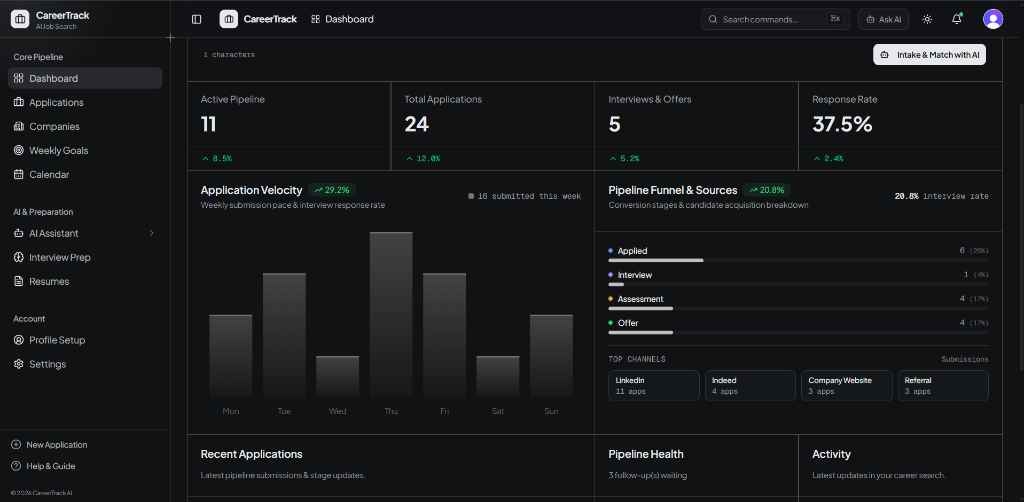
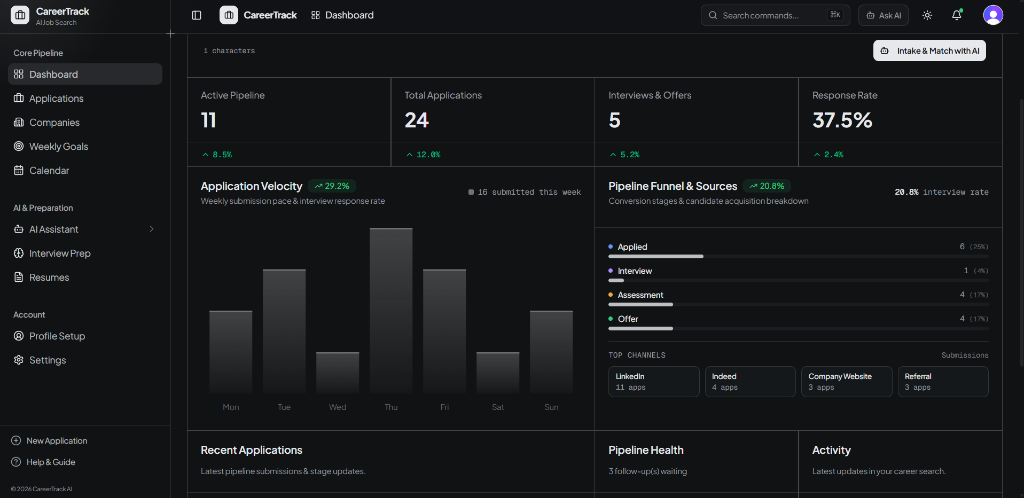
fix(landing): remove top dark border artifact from light mode hero dashboard mockup

diff --git a/src/components/hero.tsx b/src/components/hero.tsx
@@ -115,7 +115,7 @@ export function HeroSection() {
 					<Image
 						alt="CareerTrack AI Dashboard Preview (Dark Mode)"
 						className="hidden dark:block w-full h-auto object-cover pointer-events-none select-none [image-rendering:-webkit-optimize-contrast]"
-						height={502}
+						height={499}
 						src="/dashboard-dark.png"
 						width={1024}
 						priority
@@ -125,7 +125,7 @@ export function HeroSection() {
 					<Image
 						alt="CareerTrack AI Dashboard Preview (Light Mode)"
 						className="block dark:hidden w-full h-auto object-cover pointer-events-none select-none [image-rendering:-webkit-optimize-contrast]"
-						height={502}
+						height={499}
 						src="/dashboard-light.png"
 						width={1024}
 						priority
